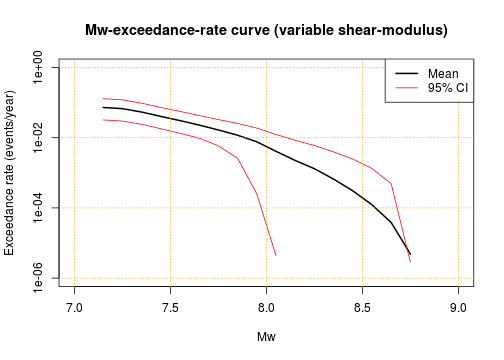
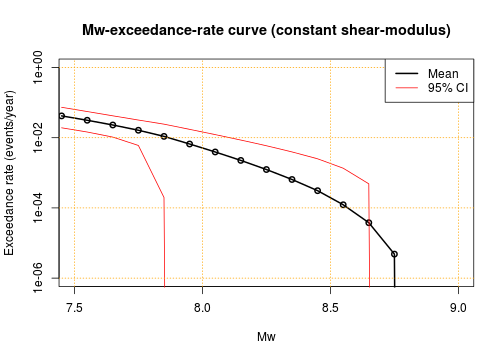
better doc

diff --git a/ptha_access/README.md b/ptha_access/README.md
@@ -643,53 +643,51 @@ sum(puysegur$events$rate_annual_upper * (puysegur$events$Mw > 7.85))
 ```
 Notice that these are ordered as expected, i.e. 2.5% <= 16% <= median <= 84% <=
 97.5%. Thus we can recover the source-zones magnitude-exceedance rate curve
-from these files. Here we illustrate that for the variable-shear-modulus case:
+from these files. Here we illustrate that (assuming constant shear modulus):
 
 ```r
 # Sequence of magnitude values
-mws = seq(7.15, 9.85, by=0.1)
-# Mean exceedance rate curve (assuming variable shear modulus)
+mws = seq(7.45, 9.85, by=1/10)
+
+# Mean exceedance rate curve
 mean_rates = sapply(mws, f<-function(x){
-    sum(puysegur$events$variable_mu_rate_annual * (puysegur$events$variable_mu_Mw > x))
+    sum(puysegur$events$rate_annual * (puysegur$events$Mw > x))
     })
-# 2.5% exceedance rate curve (assuming variable shear modulus)
+
+# 2.5% exceedance rate curve
 lower_ci_rates = sapply(mws, f<-function(x){
-    sum(puysegur$events$variable_mu_rate_annual_lower_ci * (puysegur$events$variable_mu_Mw > x))
+    sum(puysegur$events$rate_annual_lower_ci * (puysegur$events$Mw > x))
     })
-# 97.5% exceedance rate curve (assuming variable shear modulus)
+
+# 97.5% exceedance rate curve
 upper_ci_rates = sapply(mws, f<-function(x){
-    sum(puysegur$events$variable_mu_rate_annual_upper_ci * (puysegur$events$variable_mu_Mw > x))
+    sum(puysegur$events$rate_annual_upper_ci * (puysegur$events$Mw > x))
     })
+# ... should also add the 68% and median -- but for brevity we skip that here.
 
-# Make a plot
-plot(mws, mean_rates, t='l', log='y', lwd=2, 
-    xlim=c(7., 9), ylim=c(1.0e-06,1), 
-    main='Mw-exceedance-rate curve (variable shear-modulus)', 
+# Make a plot. 
+# To avoid truncation of the lines due to plotting zero values on a
+# log-axis-plot, we convert zero rates to 1e-100. 
+plot(mws, pmax(mean_rates, 1e-100), t='o', log='y', lwd=2, 
+    xlim=c(7.5, 9), ylim=c(1.0e-06,1), 
+    main='Mw-exceedance-rate curve (constant shear-modulus)', 
     xlab="Mw", ylab="Exceedance rate (events/year)")
-```
-
-```
-## Warning in xy.coords(x, y, xlabel, ylabel, log): 11 y values <= 0 omitted
-## from logarithmic plot
-```
-
-```r
-points(mws, upper_ci_rates, t='l', col='red')
-points(mws, lower_ci_rates, t='l', col='red')
+points(mws, pmax(upper_ci_rates, 1e-100), t='l', col='red')
+points(mws, pmax(lower_ci_rates, 1e-100), t='l', col='red')
 grid(col='orange')
 legend('topright', c('Mean', '95% CI'), col=c('black', 'red'), lwd=c(2,1))
 ```
 
 ![plot of chunk mwExceedanceExample](figure/mwExceedanceExample-1.png)
 
-It is important to understand that at the individual scenario level, there is
-no such ordering constraint. For example, the `rate_annual_16pc` value is
+It is important to understand that there is no ordering constraint on the
+individual scenario rates. For example, the `rate_annual_16pc` value is
 sometimes larger than the `rate_annual_median` value. This is because the
 latter variables are related to the *derivatives* of the Mw-exceedance-rate
 percentile curves - and the derivatives might not be ordered in the same way as
-the exceedance-rate curves themselves. In other words, the ordering constraint
-applies to the cumulative sum of the individual scenario rates, but not the rates
-themselves.
+the exceedance-rate curves themselves. In other words, **the ordering constraint
+applies to the cumulative sum of the individual scenario rates** - and not 
+directly to the individual scenario rates.
 
 This highlights that the individual scenario rates are not particularly meaningful
 unless integrated over many scenarios.
